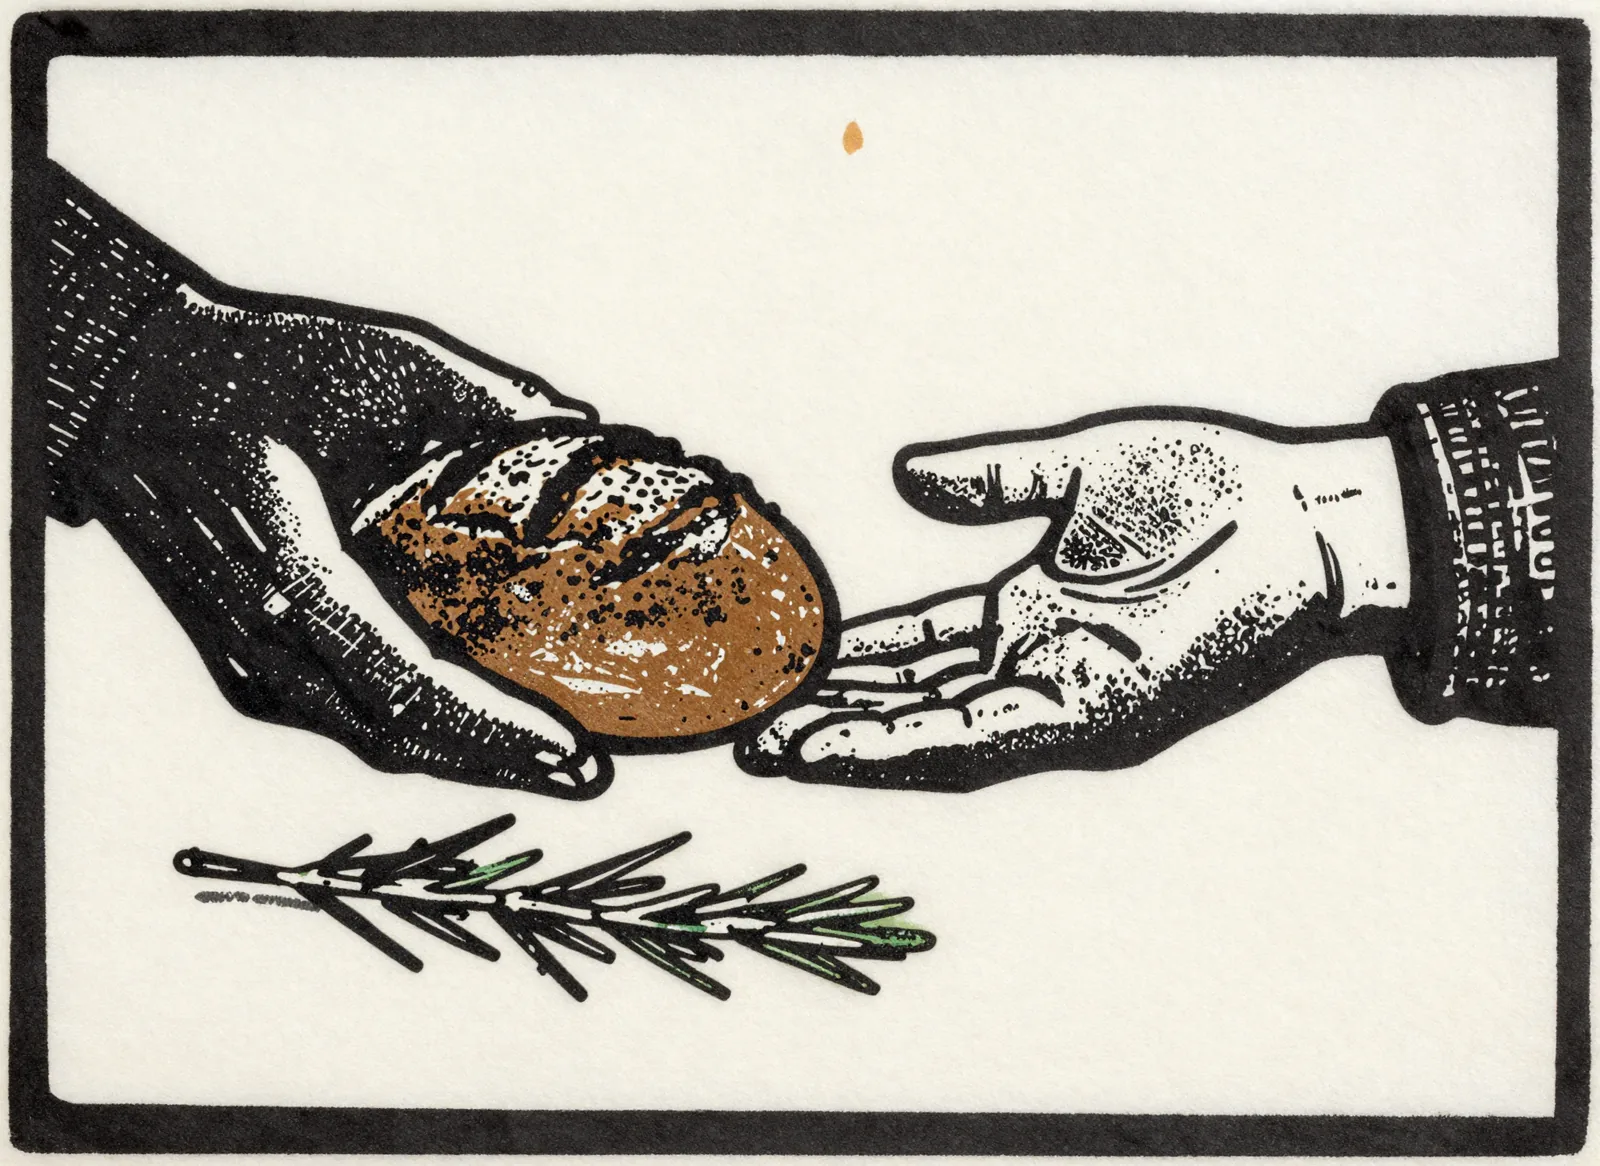
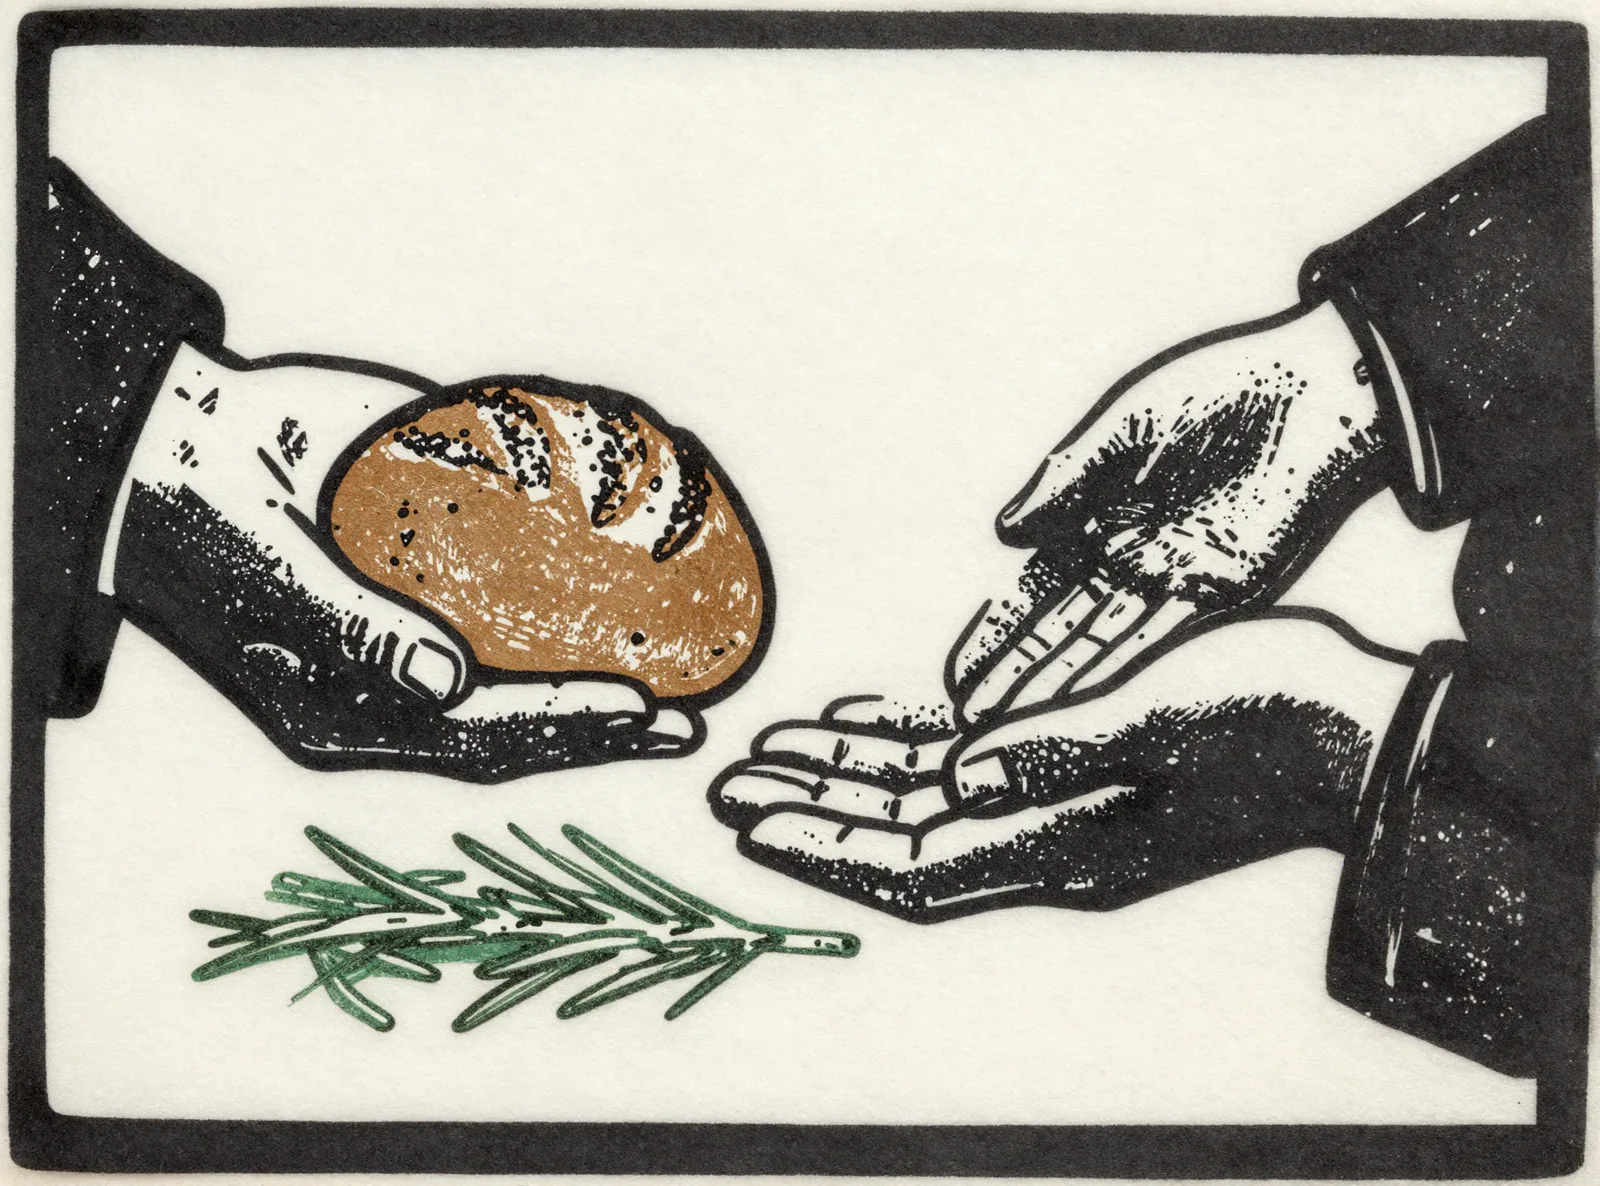
fix(design): restore the original bread print at the founder's word
The realism scan re-rolled the exchange scene unasked. The original
returns: one hand gives the loaf and two hands receive it.

diff --git a/templates/illustrations/_exchange.html b/templates/illustrations/_exchange.html
@@ -1,7 +1,7 @@
-{% comment %}Parish Linocut — original UMI illustration. The exchange — one hand gives the loaf and one open hand receives it, the rosemary sprig lying beneath. Nobody is only a giver.
+{% comment %}Parish Linocut — original UMI illustration. The exchange — one hand gives the loaf, two receive it; the rosemary sprig beneath. Nobody is only a giver.
    Two-plate relief print in the Commons palette (stone paper, espresso ink,
    evergreen + bronze), generated suite 2026-07-14. Decorative.{% endcomment %}
 {% load static %}
 <img src="{% static 'img/scenes/exchange.webp' %}" data-scene="exchange" alt=""
-     class="{{ class|default:'w-full h-auto' }}" width="1600" height="1166"
+     class="{{ class|default:'w-full h-auto' }}" width="1600" height="1186"
      decoding="async">
